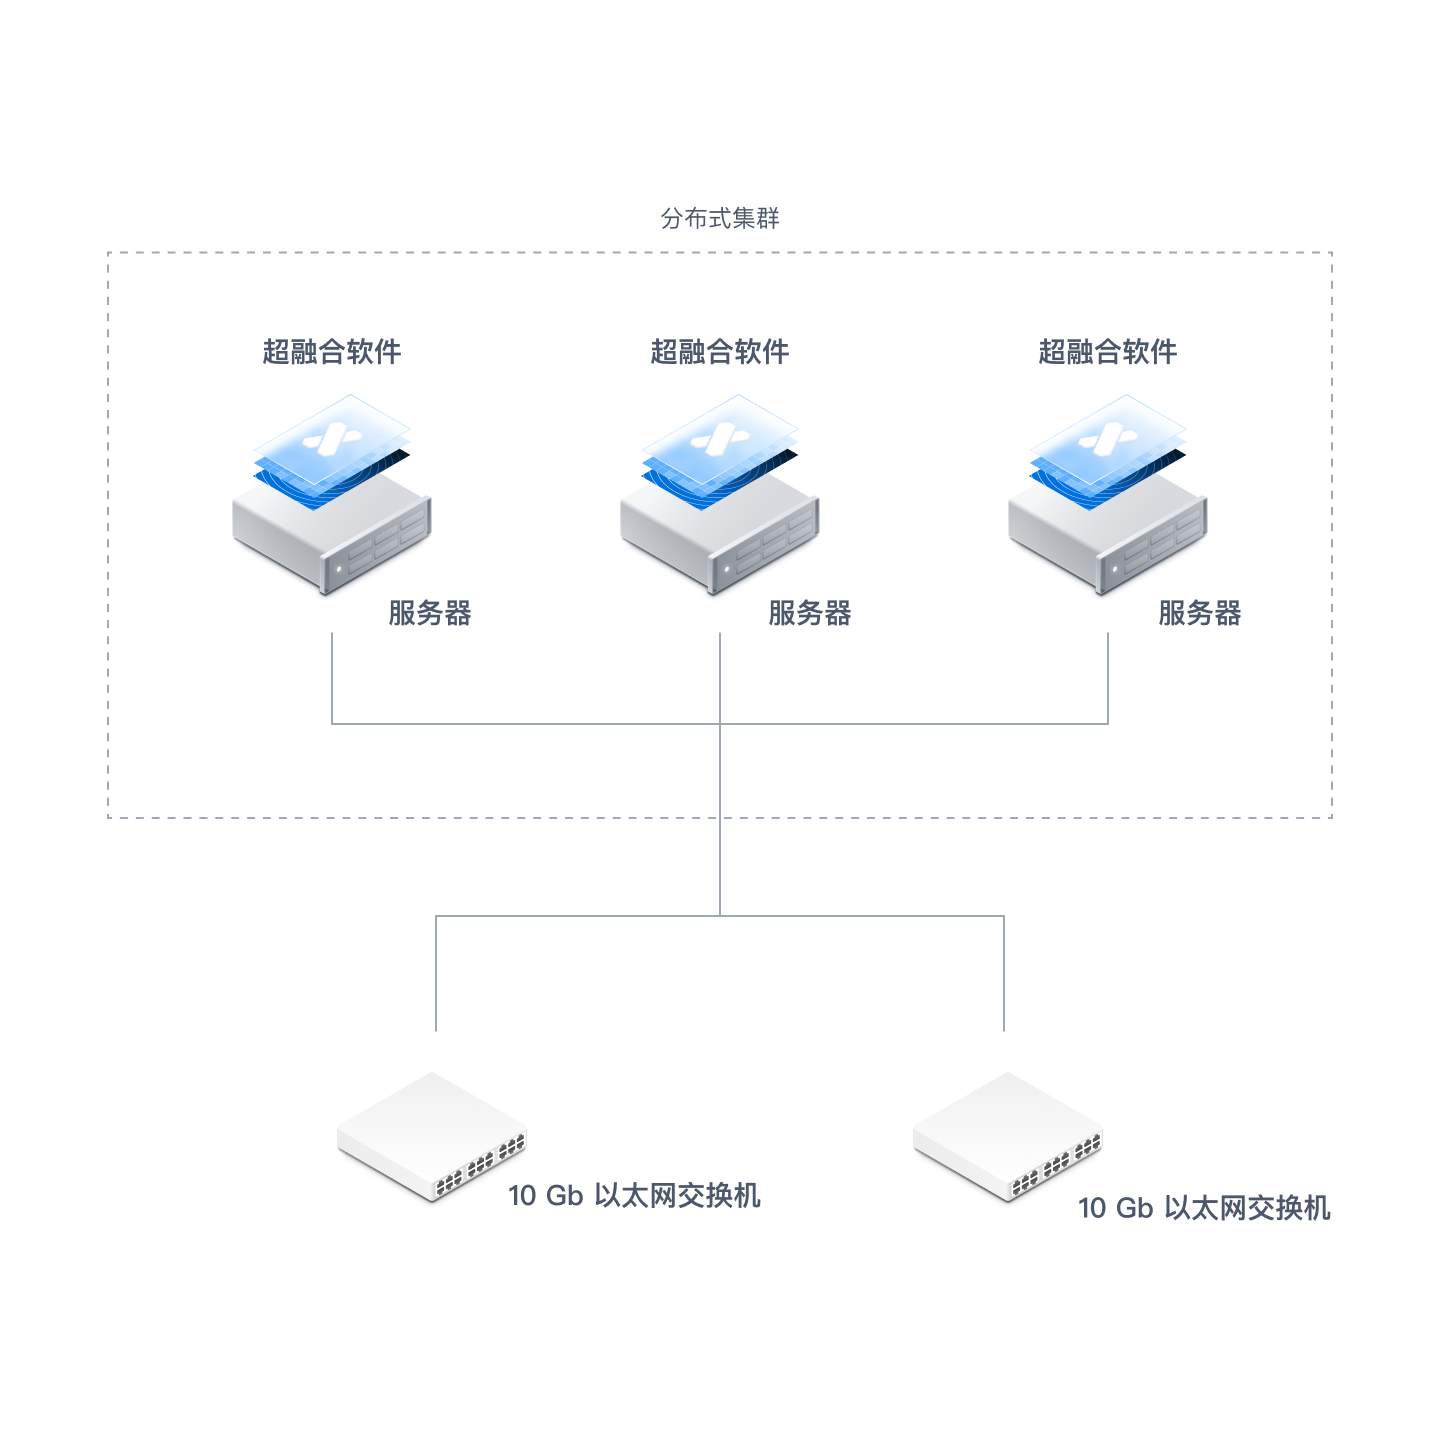
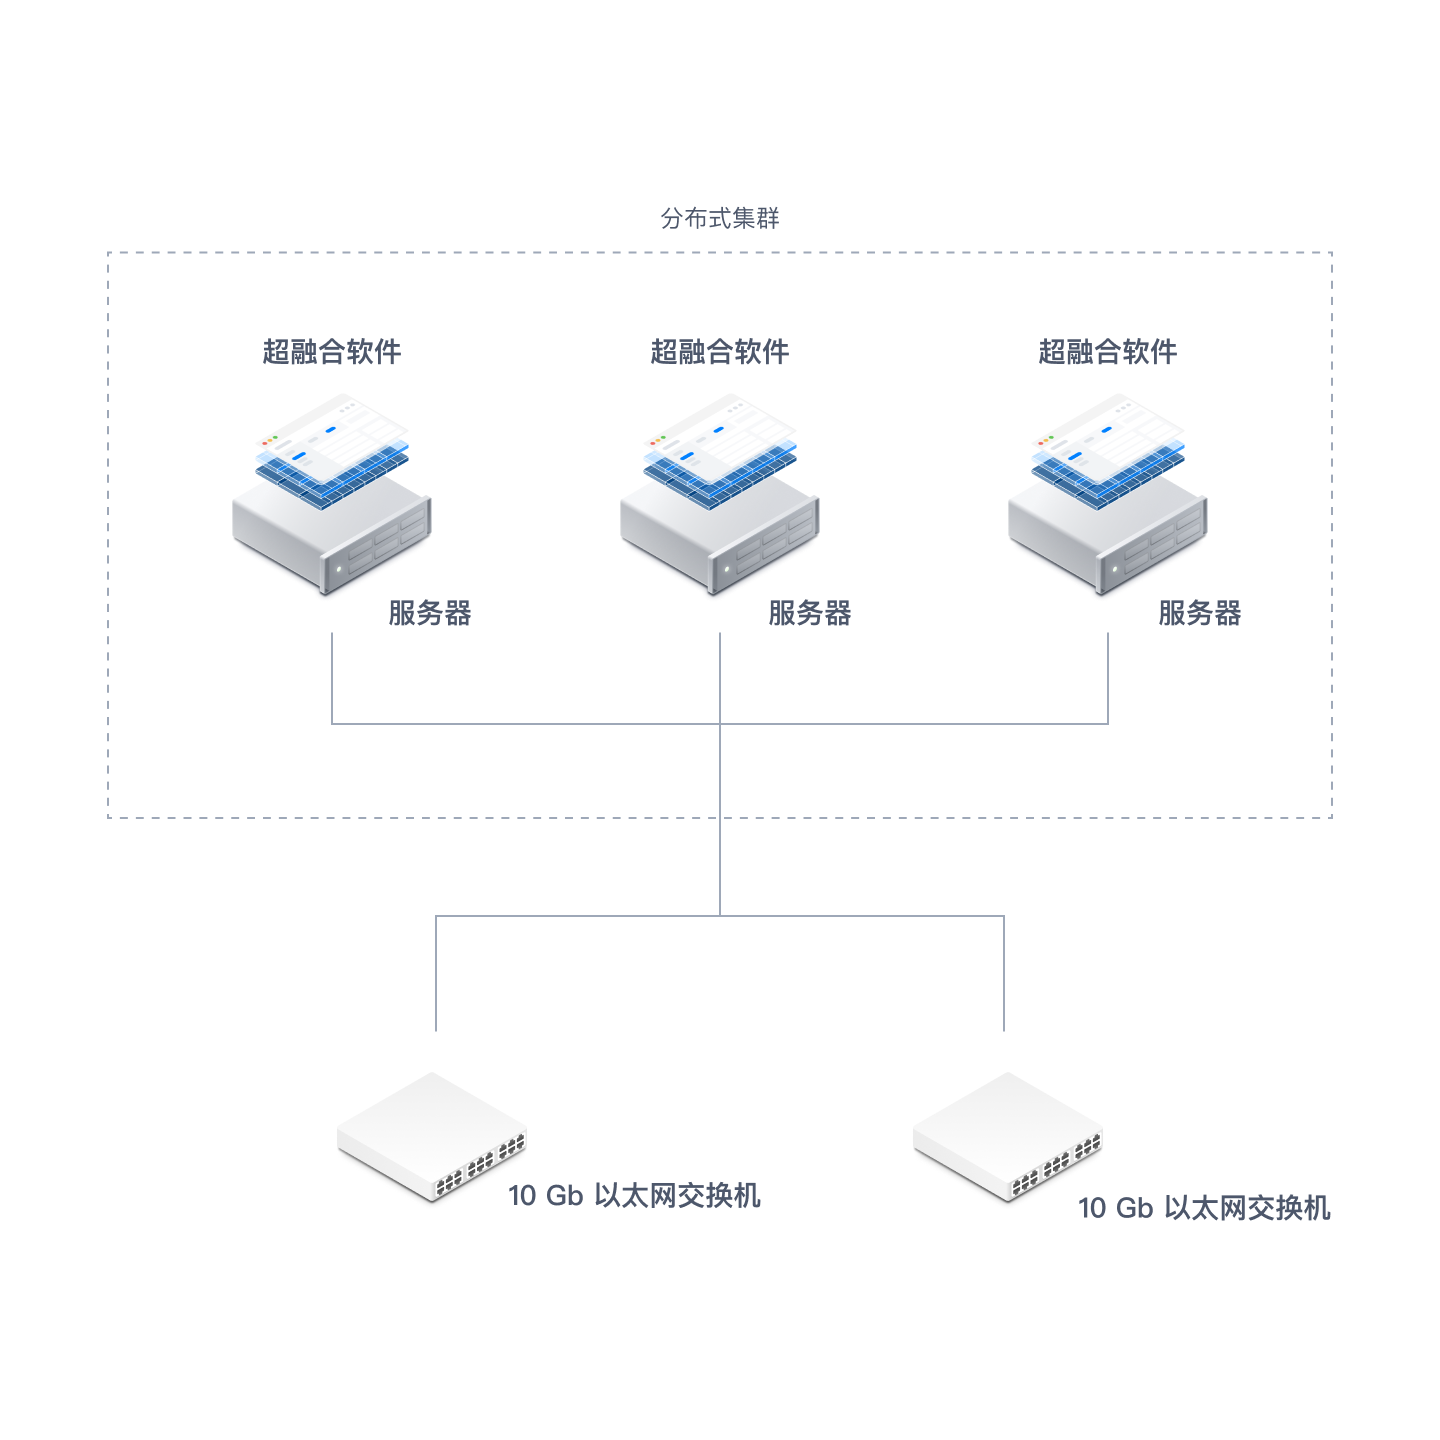
Add Section

Changed region(s): [[0.1562, 0.2812, 0.2812, 0.375], [0.7188, 0.2812, 0.8438, 0.375], [0.4375, 0.2812, 0.5625, 0.375]]

diff --git a/index.html b/index.html
@@ -26,5 +26,23 @@
             </div>
             <img src="src/structure-diagram.png" alt="Structure Diagram" class="structure-diagram">
         </section>
+        <section class="software-structure-section">
+            <img src="src/software-structure.png" alt="Software Structure" class="software-structure-image">
+            <div class="section-text-group software-stucture-description">
+                <h2 class="section-title">超融合软件</h2>
+                <div class="highlight-text-group">
+                    <h3 class="highlight-text">Web 控制台</h3>
+                    <p class="section-text">为超融合架构提供统一管理计算、存储、网络等多种资源的工具。</p>
+                </div>
+                <div class="highlight-text-group">
+                    <h3 class="highlight-text">计算虚拟化</h2>
+                    <p class="section-text">可将集群中的 x86 或 ARM 架构服务器上的 CPU、内存等计算资源进行虚拟化，提供计算虚拟化功能。</p>
+                </div>
+                <div class="highlight-text-group">   
+                    <h3 class="highlight-text">软件定义存储</h3>
+                    <p class="section-text">将集群中多台 x86 或 ARM 架构服务器上的 SSD、HDD 等存储资源进行虚拟化，提供统一的存储资源池服务。</p>
+                </div>
+            </div>
+        </section>
     </body>
 </html>

diff --git a/style.css b/style.css
@@ -56,11 +56,11 @@ body {
 }
 
 .concept-section {
-    height: 100vh;
     display: flex;
     flex-direction: column;
     justify-content: center;
     align-items: center;
+    margin: 120px 0px;
 }
 
 .concept-image {
@@ -96,10 +96,11 @@ body {
 }
 
 .structure-section {
-    height: 100vh;
     display: flex;
     justify-content: center;
     align-items: center;
+    margin: 40px 0px;
+    background-image: linear-gradient(rgba(247,251,254,1), rgba(255,255,255,1));
 }
 
 .structure-diagram {
@@ -115,4 +116,37 @@ body {
 
 .structure-text {
     max-width: 416px;
+    margin-top: 32px;
+}
+
+.software-structure-section {
+    display: flex;
+    justify-content: center;
+    align-items: center;
+    margin: 40px 0px;
+}
+
+.software-structure-image {
+    max-width: 720px;
+    width: 100%;
+    height: 100%;
+    max-height: 720px;
+    position: relative;
+    top: 40px;
+    right: 40px;
+}
+
+.highlight-text {
+    font-size: 24px;
+    line-height: 200%;
+    color: #020F1D;
+    margin: 0px;
+}
+
+.software-stucture-description {
+    max-width: 503px;
+}
+
+.highlight-text-group {
+    margin-top: 32px;
 }
